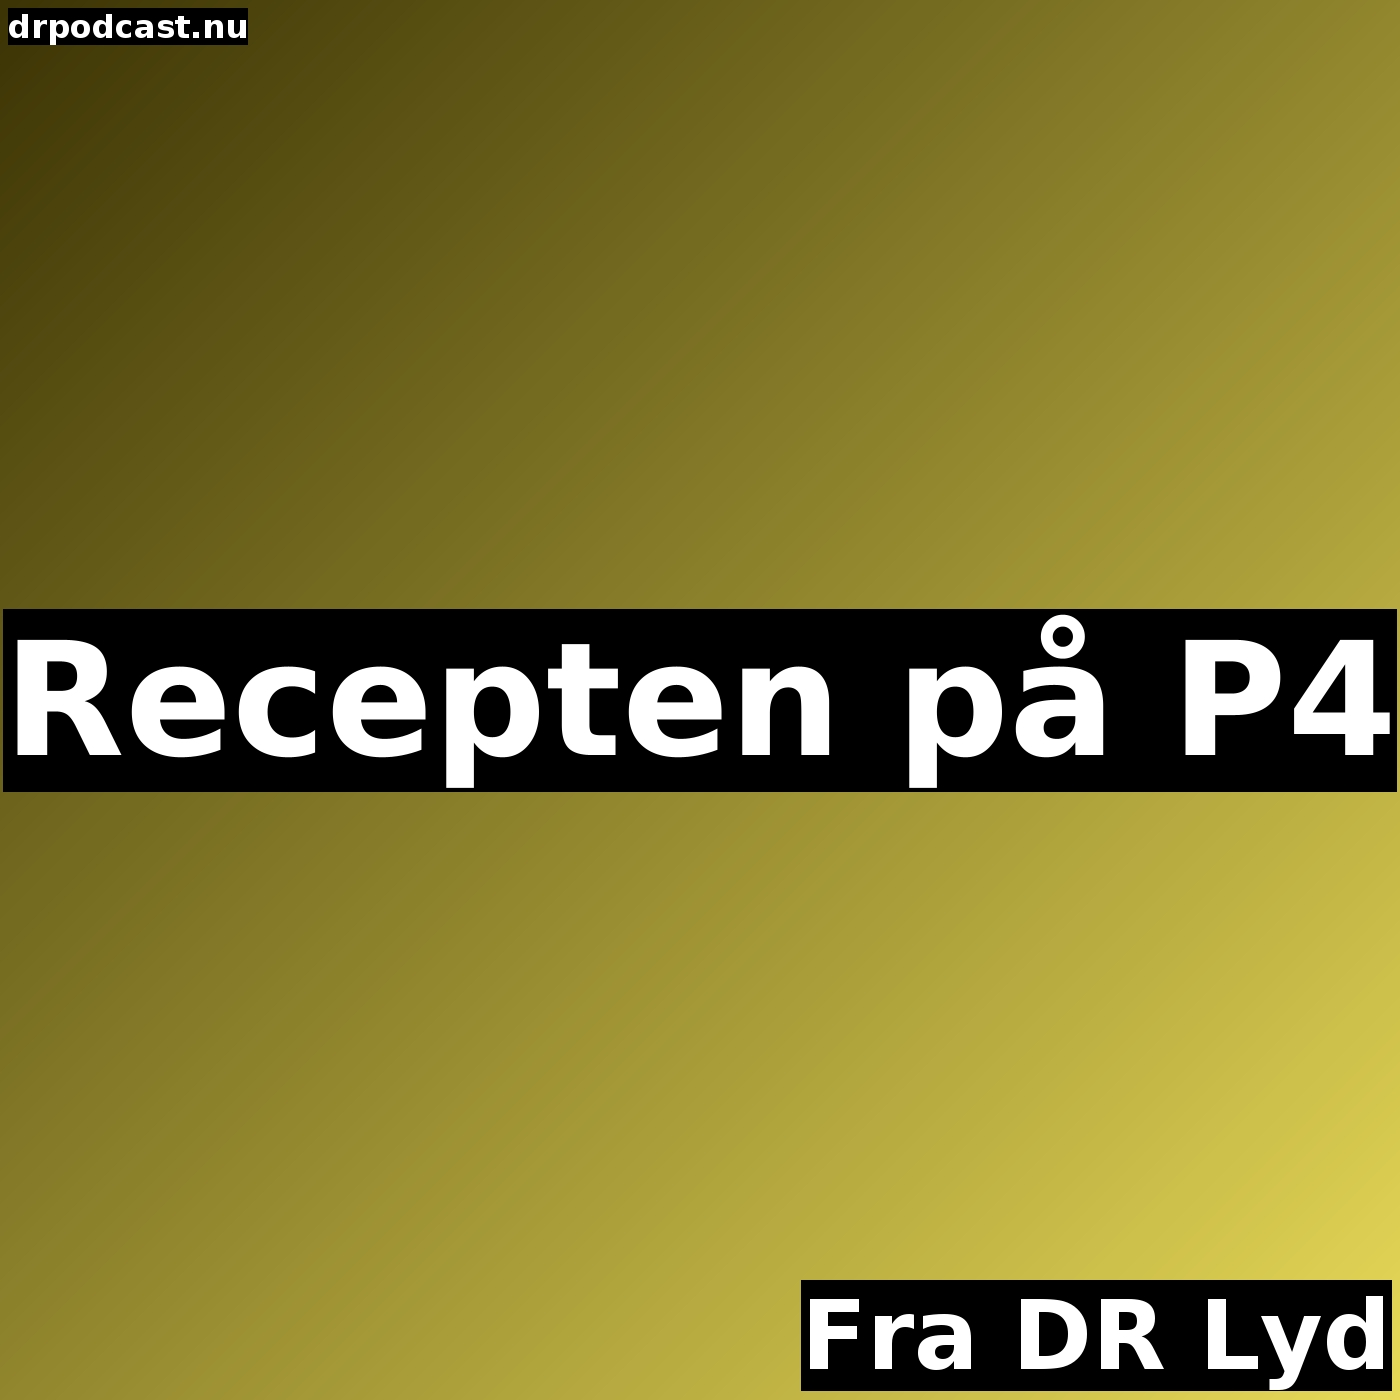
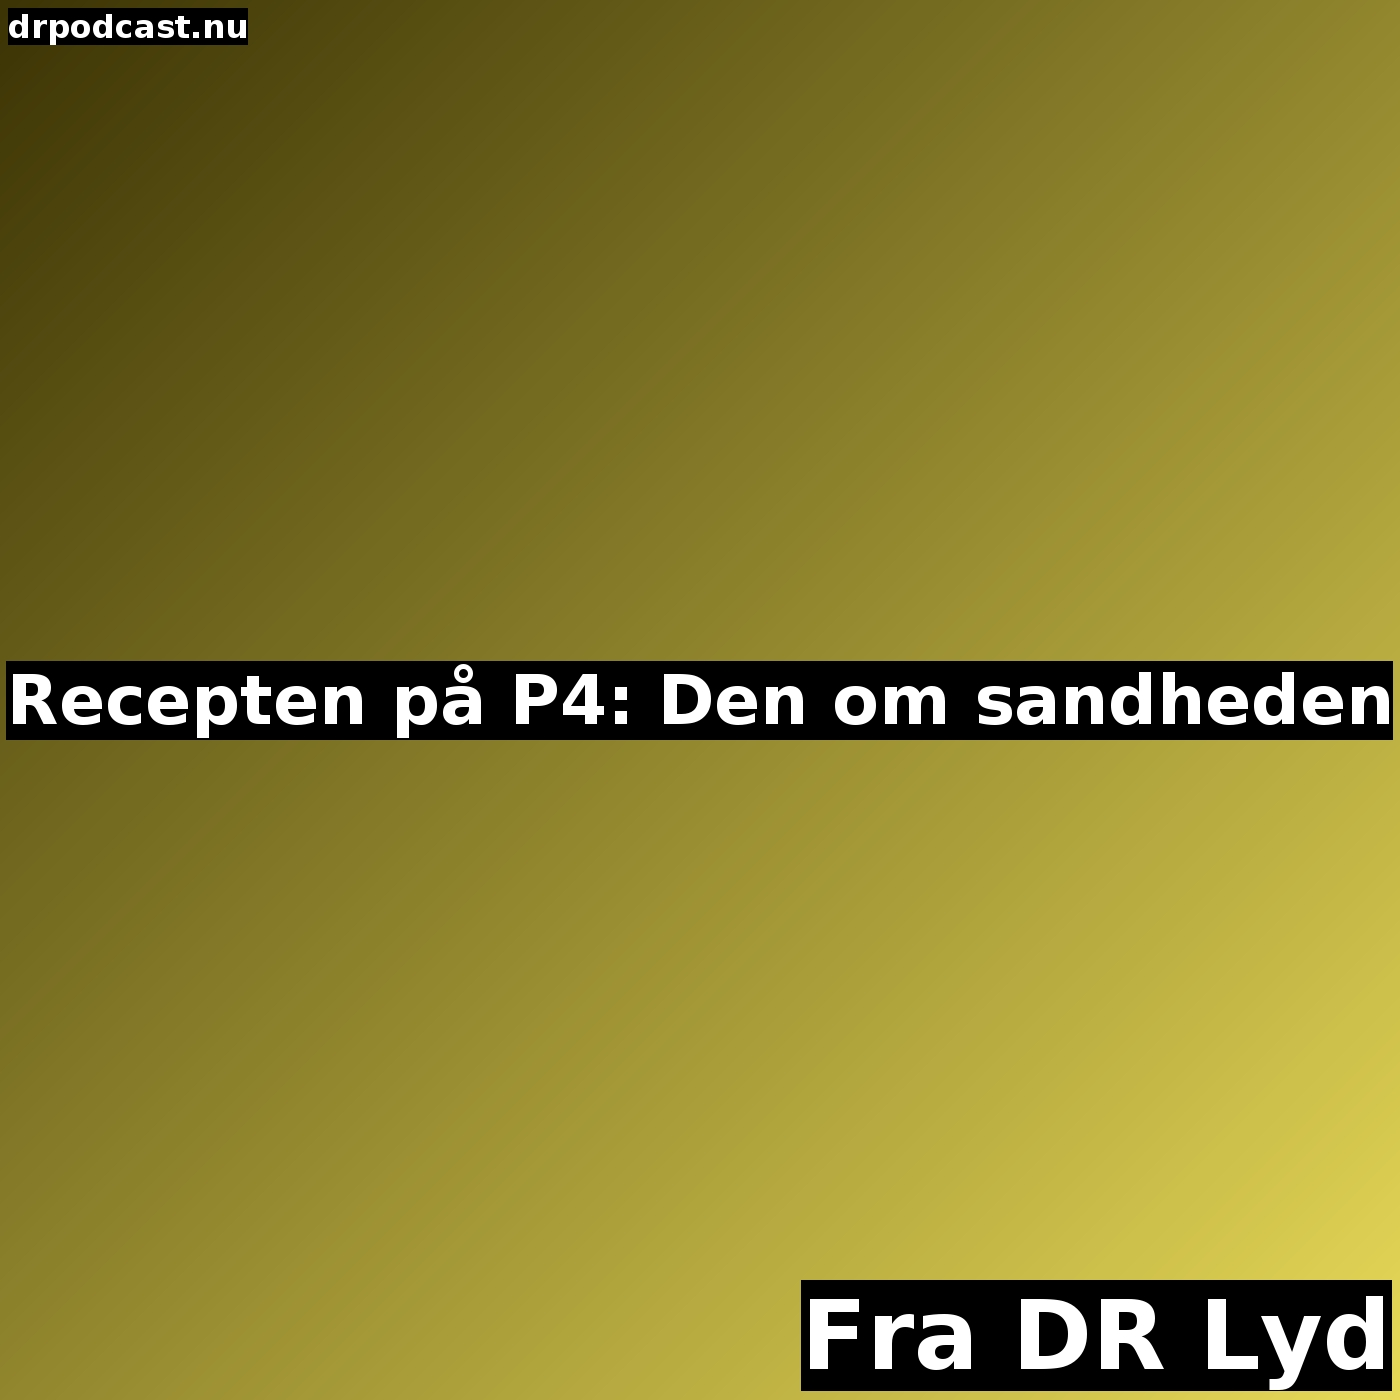
update

Changed region(s): [[0.0, 0.43, 1.0, 0.5836]]

diff --git a/index.html b/index.html
@@ -3233,9 +3233,9 @@
             </a>
             <a href="recepten-paa-p4/feed.xml">
                 <div>
-                    <img class="tile" src="recepten-paa-p4/image.jpg" alt="Recepten på P4" />
+                    <img class="tile" src="recepten-paa-p4/image.jpg" alt="Recepten på P4: Den om sandheden" />
                     <br>
-                    <strong>Recepten på P4</strong>
+                    <strong>Recepten på P4: Den om sandheden</strong>
                 </div>
             </a>
             <a href="residensen/feed.xml">
